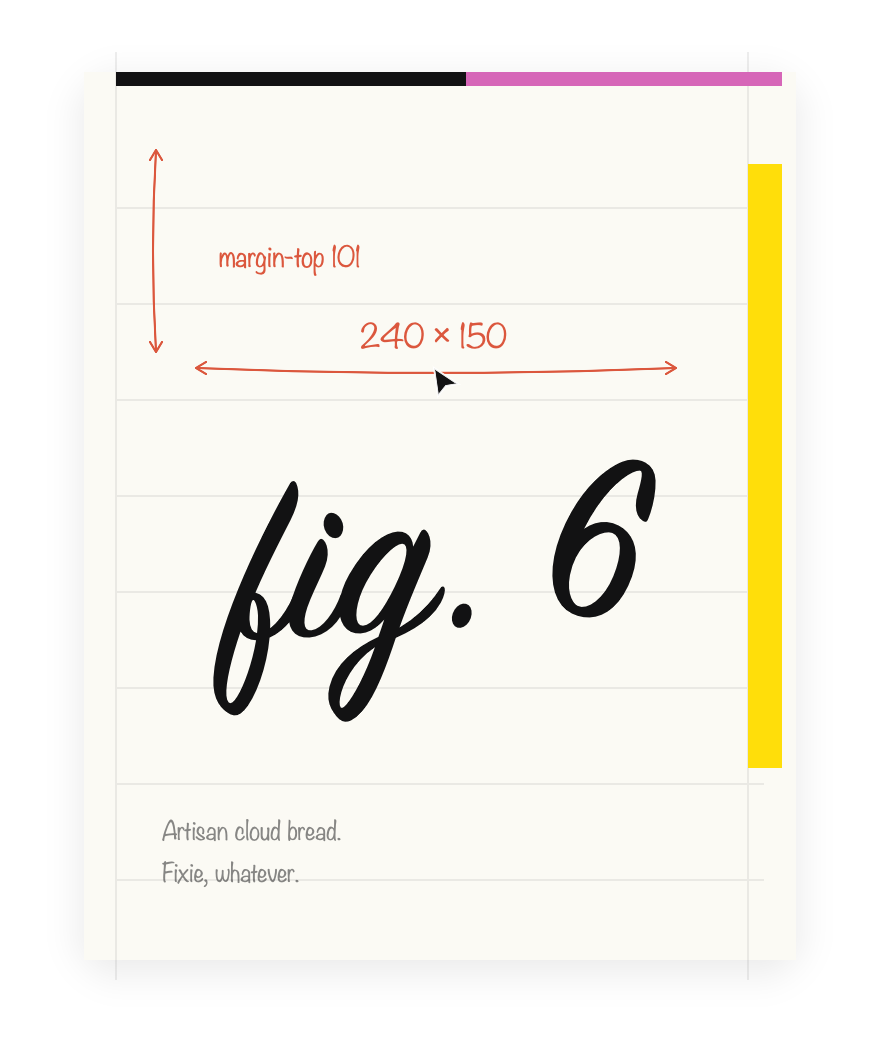
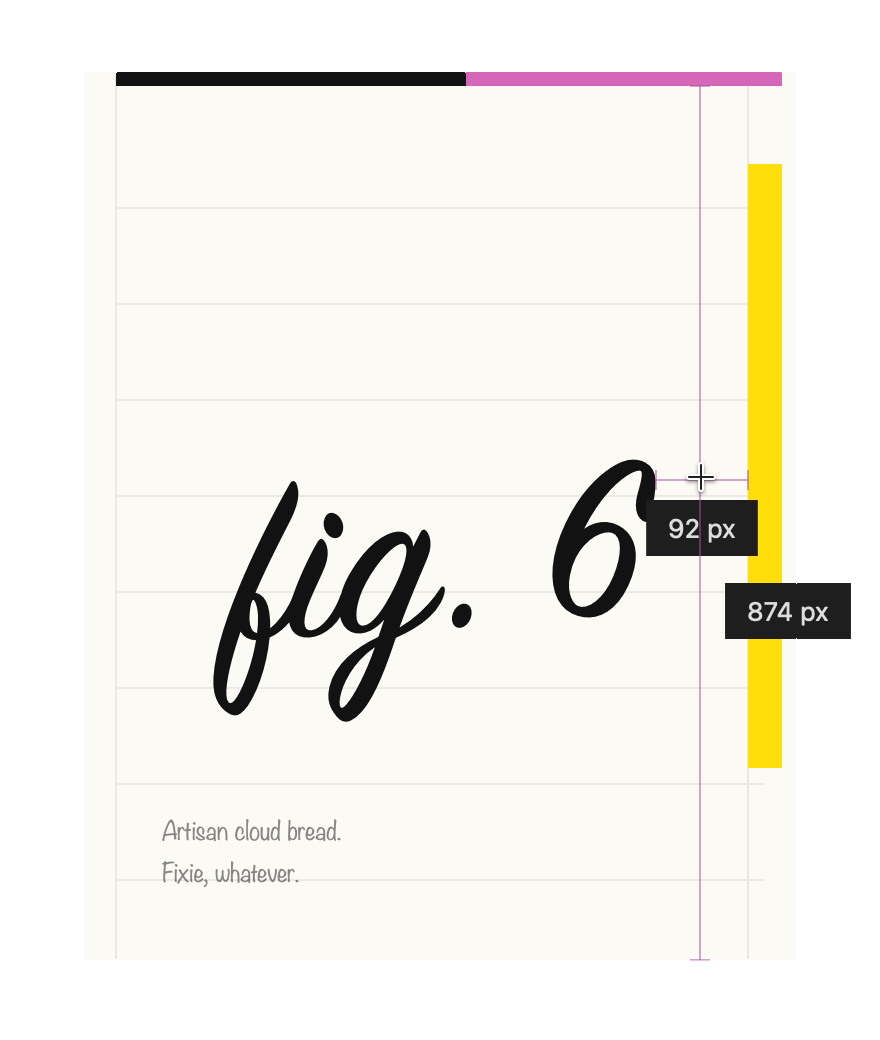
Refresh Product Hunt gallery with native axes and looping demo

diff --git a/Scripts/export-product-hunt.swift b/Scripts/export-product-hunt.swift
@@ -1,11 +1,13 @@
 #!/usr/bin/env swift
 import AppKit
 import SwiftUI
+import ImageIO
+import UniformTypeIdentifiers
 
 let root = URL(fileURLWithPath: FileManager.default.currentDirectoryPath)
 let output = root.appendingPathComponent("Assets/ProductHunt")
 let mark = NSImage(contentsOf: root.appendingPathComponent("Assets/Artwork/Schnaps-Blueprint.svg"))!
-// Selected states of the editorial sketchbook homepage illustration.
+// Native live hover renders and actual area/pinning captures from the homepage demo.
 let overview = NSImage(contentsOf: output.appendingPathComponent("Source/overview.png"))!
 let hover = NSImage(contentsOf: output.appendingPathComponent("Source/hover.png"))!
 let selection = NSImage(contentsOf: output.appendingPathComponent("Source/pin.png"))!
@@ -52,5 +54,23 @@ try MainActor.assumeIsolated {
     for (index, card) in cards.enumerated() {
         try save(HuntCard(screenshot: card.1, number: "0\(index + 1) / 03"), name: card.0, size: CGSize(width: 1270, height: 760))
     }
+    struct Frame: Decodable { let file: String; let duration: Int }
+    let source = output.appendingPathComponent("Source")
+    let timeline = try JSONDecoder().decode([Frame].self, from: Data(contentsOf: source.appendingPathComponent("timeline.json")))
+    // Lead with visible Find Dimensions axes for a useful static sharing preview.
+    let ordered = Array(timeline.dropFirst()) + [timeline[0]]
+    let gifURL = output.appendingPathComponent("01-demo.gif")
+    let gif = CGImageDestinationCreateWithURL(gifURL as CFURL, UTType.gif.identifier as CFString, ordered.count, nil)!
+    CGImageDestinationSetProperties(gif, [kCGImagePropertyGIFDictionary: [kCGImagePropertyGIFLoopCount: 0]] as CFDictionary)
+    for frame in ordered {
+        let image = NSImage(contentsOf: source.appendingPathComponent("Frames/" + frame.file))!
+        let renderer = ImageRenderer(content: HuntCard(screenshot: image, number: "01 / 03"))
+        renderer.scale = 1; renderer.isOpaque = true
+        CGImageDestinationAddImage(gif, renderer.cgImage!, [kCGImagePropertyGIFDictionary: [kCGImagePropertyGIFDelayTime: Double(frame.duration) / 1000]] as CFDictionary)
+    }
+    precondition(CGImageDestinationFinalize(gif))
+    let gifBytes = try Data(contentsOf: gifURL).count
+    precondition(gifBytes < 10_000_000)
+    print("01-demo.gif: 1270 × 760, \(gifBytes) bytes, looping")
     try save(Image(nsImage: icon).resizable().scaledToFit(), name: "thumbnail", size: CGSize(width: 240, height: 240))
 }

diff --git a/Assets/ProductHunt/README.md b/Assets/ProductHunt/README.md
@@ -1,0 +1,7 @@
+# Product Hunt media
+
+Run `swift Scripts/export-product-hunt.swift` from the repository root to regenerate the 1270 × 760 gallery and 240 × 240 thumbnail.
+
+The gallery uploads are `01-demo.gif`, `02-find-dimensions.png`, and `03-pin-and-copy.png`, in that order. `01-overview.png` is a static alternative to the animation. The GIF loops through the homepage workflow, beginning with visible horizontal and vertical Find Dimensions axes.
+
+`Source/Frames/` and `Source/timeline.json` preserve the homepage animation states. The live hover frames render Schnaps’s unmodified measurement view and edge detector; area resizing and pinning frames are actual app captures. `Source/overview.png`, `hover.png`, and `pin.png` provide the still exports. No measurement UI is drawn by this gallery exporter.
